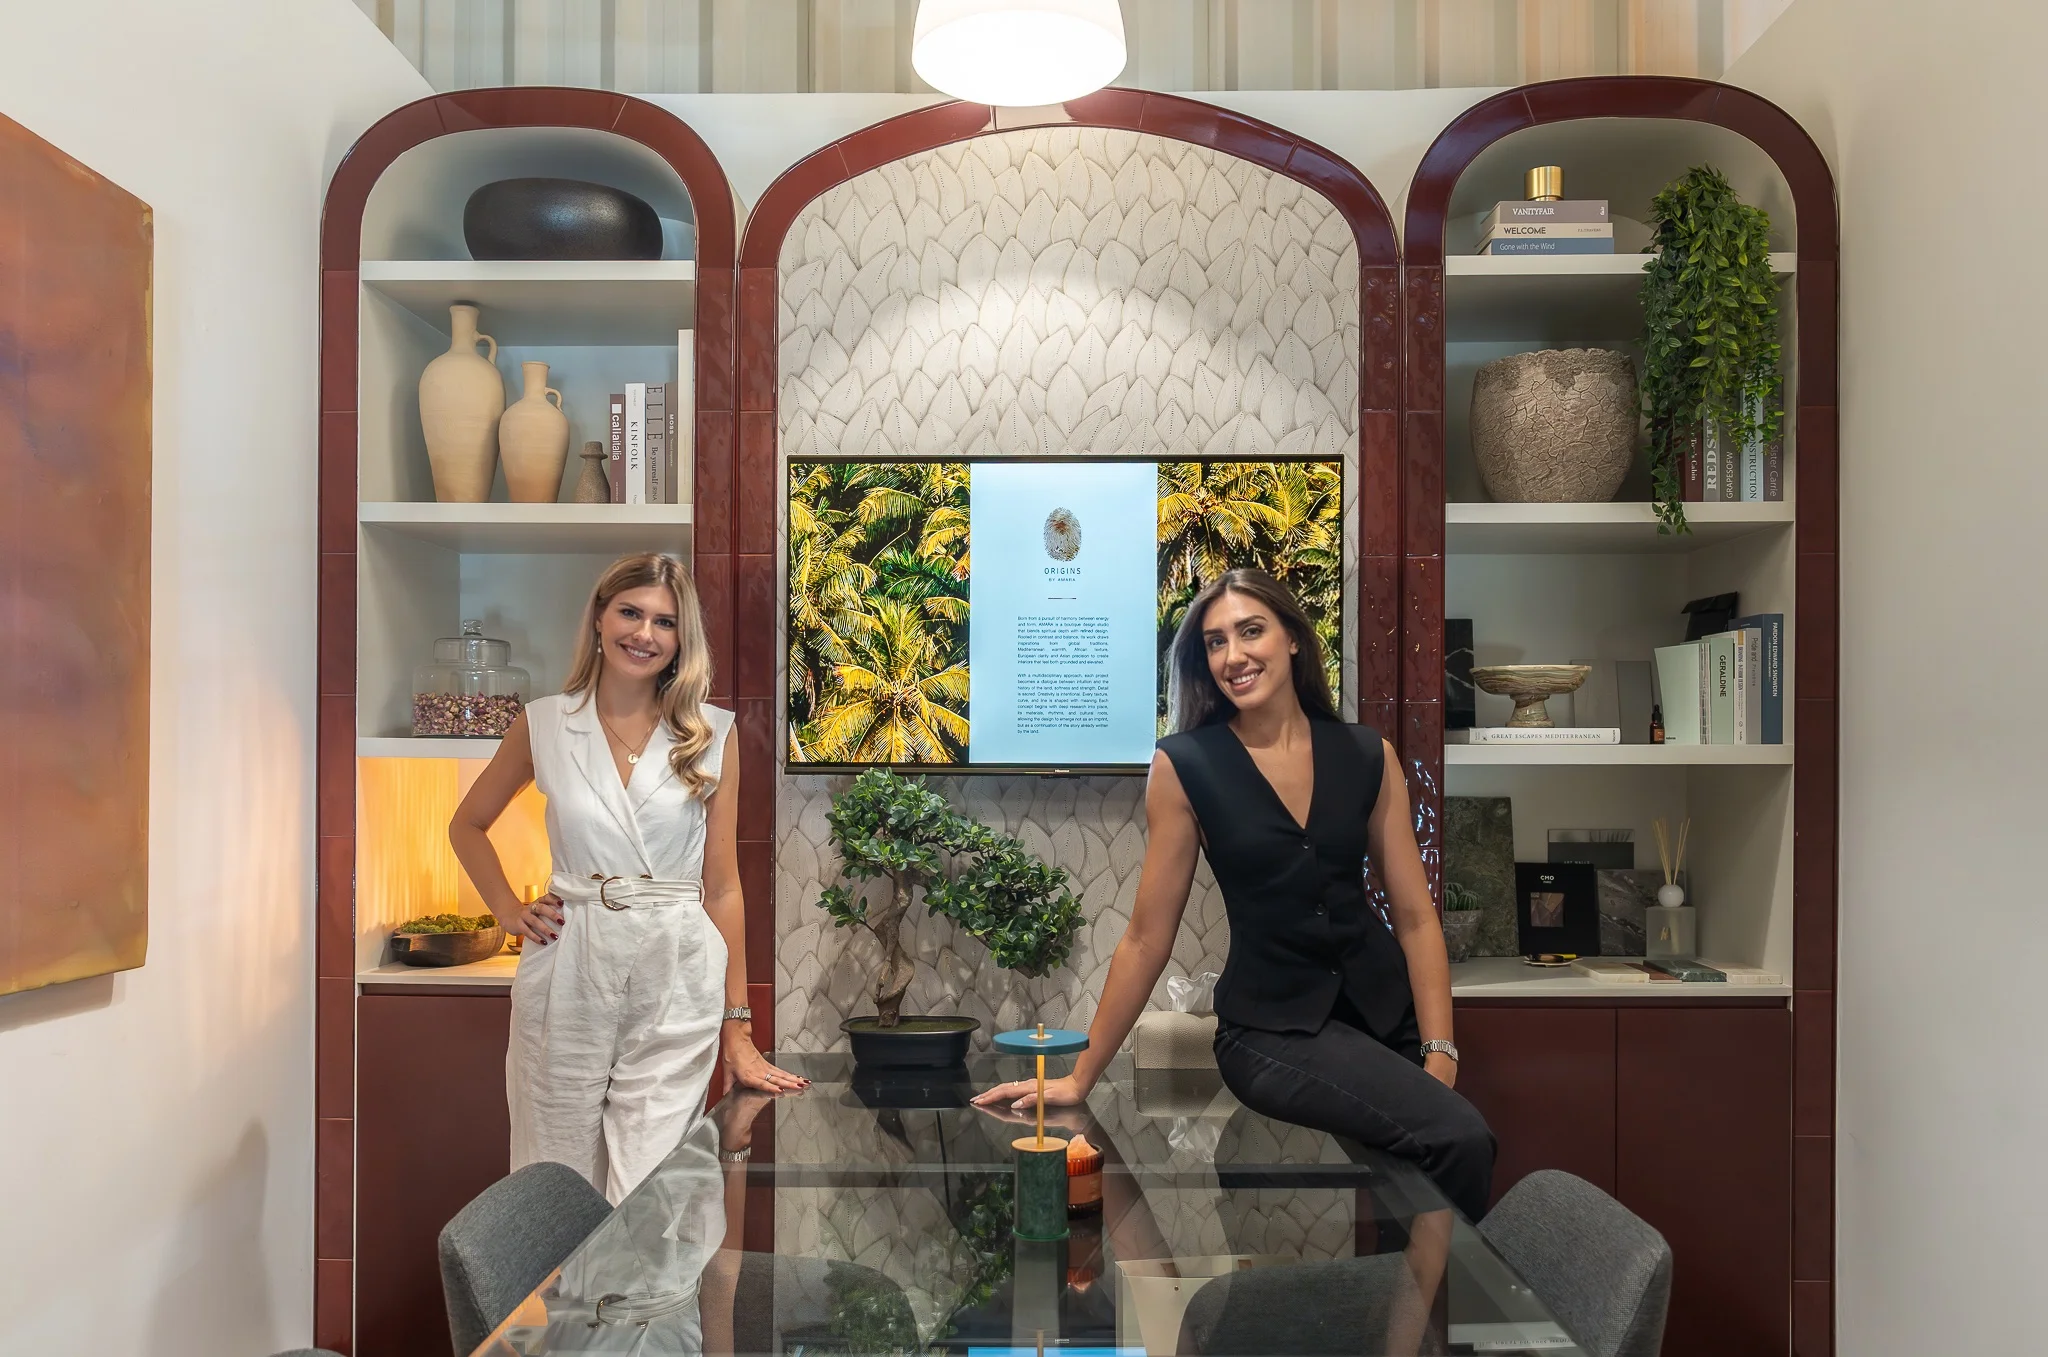
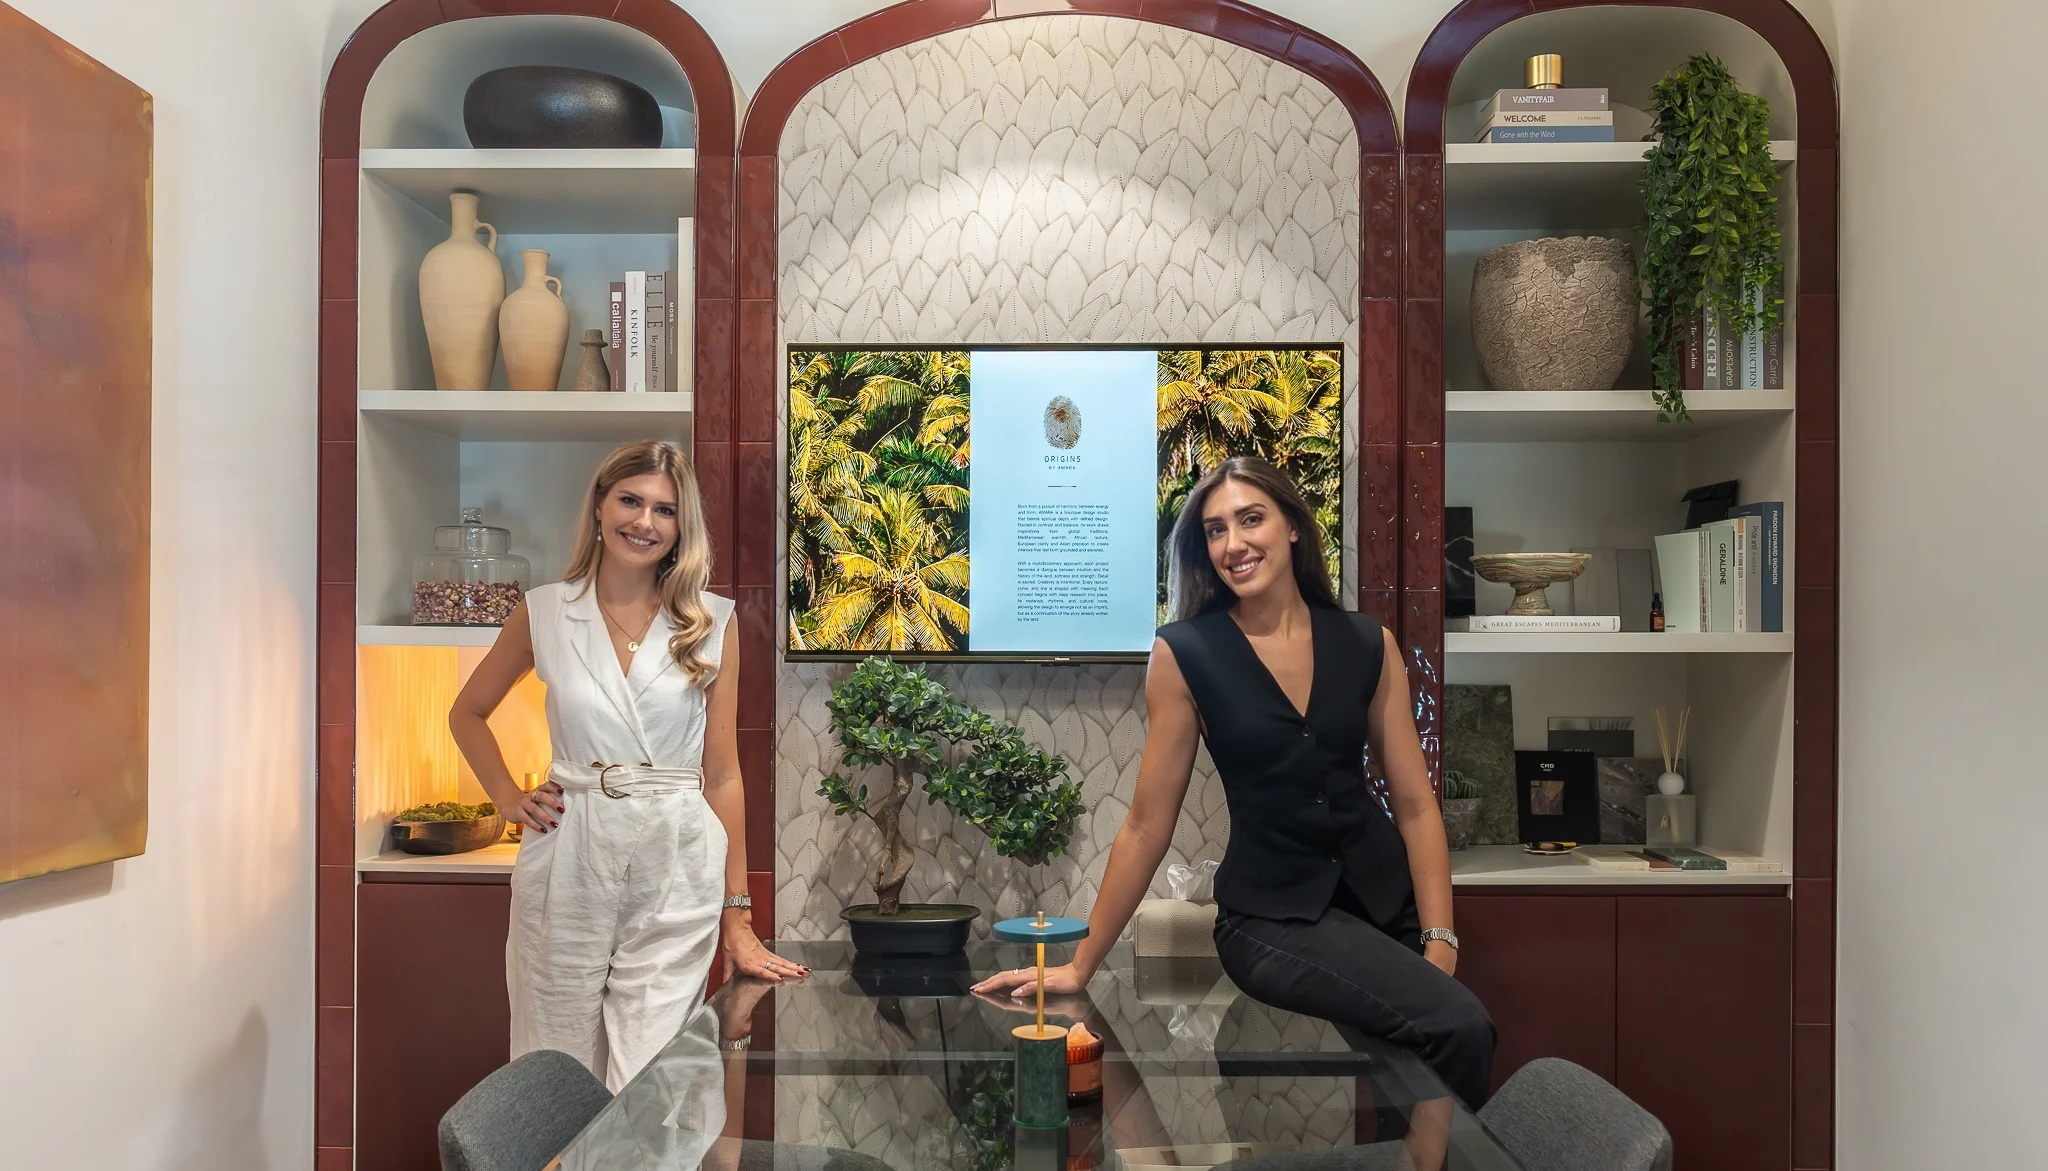
Update founder image and adjust dimensions for the about us page
Replaced the founder image on the about us page with a new WebP version and updated its height attribute in `ExpandingImageAbout.tsx`.

Replit-Commit-Author: Agent
Replit-Commit-Session-Id: a1c1f4c3-4297-4193-892c-52422f7b45fd
Replit-Commit-Checkpoint-Type: full_checkpoint
Replit-Commit-Event-Id: 11082f8e-6797-40e0-bb15-5bbf95997921
Replit-Commit-Screenshot-Url: https://storage.googleapis.com/screenshot-production-us-central1/537c5dd7-4aa7-46be-9f22-af8254a38350/a1c1f4c3-4297-4193-892c-52422f7b45fd/7qNAAYz
Replit-Helium-Checkpoint-Created: true

diff --git a/components/pages/about-us/ExpandingImageAbout.tsx b/components/pages/about-us/ExpandingImageAbout.tsx
@@ -107,7 +107,7 @@ export default function ExpandingImageAbout() {
           src="/images/pages/about-us/Founders_Amara_Interior_Design_Eloise_Chauviere_Ines_Bakkali.webp"
           alt="Amara Interior Design Founders - Eloise Chauviere and Ines Bakkali"
           width={2048}
-          height={1357}
+          height={1171}
           className="h-auto w-full"
         />
       </div>
